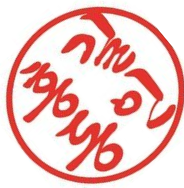
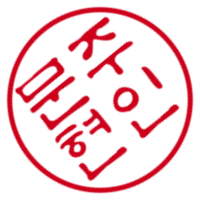
서정훈 싸인 디테일 완료

diff --git a/maru/src/main/resources/templates/dashboard/signDetail.html b/maru/src/main/resources/templates/dashboard/signDetail.html
@@ -169,10 +169,13 @@
 											<table class="table_margin_auto">
 												<tr>
 													<th width=100px height=130px th:each="STList : ${STList}">
-														<div style="z-index: 20;">
-															<img style="display: none"
-																src="../assets/img/elements/stamp/stamp.png"
-																id="stampIcon">
+
+														<div th:if="${STList.position_num} == 5">
+															<div style="z-index: 20;">
+																<img th:if="${STList}" style="display: none;"
+																	src="../assets/img/elements/stamp/stamp.png"
+																	id="stampIcon">
+															</div>
 														</div>
 													</th>
 												</tr>
@@ -187,9 +190,13 @@
 													<td class="table_center border_thick" width=100px
 														height=100px th:each="STList : ${STList}">
 
-														<div th:if="${STList.tag_sign} == Y">
-															<img width=130px height=130px
+														<div>
+															<img th:if="${STList.tag_sign} == Y" width=125px
+																height=125px
 																th:src="|../assets/img/elements/stamp/${STList.Position}.png|">
+															<img th:if="${STList.tag_sign} != Y" width=125px
+																height=125px
+																th:src="|../assets/img/elements/stamp/백지.png|">
 														</div>
 													</td>
 												</tr>

diff --git a/maru/src/main/resources/static/assets/js/main_j.js b/maru/src/main/resources/static/assets/js/main_j.js
@@ -10,7 +10,7 @@ function stampClick() {
 		
 	setTimeout(function() {
 		document.getElementById("stampIcon").style.display = "none";
-		window.location.href=window.location.href;
+		window.location.reload();
 	}, 1000);
 	
 }
@@ -30,12 +30,13 @@ let cancelBtn = document.getElementById("cancelBtn");
 
 signBtn.onclick = function() {
 
-	var asdf = document.getElementById("projects_num");
+	var pn = document.getElementById("projects_num"); //나중에 유저디테일로 바꾸기
+	var po = 1; //document.getElementById("position");
 
 	$.ajax({
 		url: 'signed',
 		type: 'get',
-		data: { projects_num: asdf.value },
+		data: { projects_num: pn.value , position : po},
 		success: idCheckSuccess,
 		error: idCheckError,
 	})

diff --git a/maru/src/main/java/net/softsociety/maru/service/dashboard/SignDetailServiceImpl.java b/maru/src/main/java/net/softsociety/maru/service/dashboard/SignDetailServiceImpl.java
@@ -17,30 +17,31 @@ public class SignDetailServiceImpl implements SignDetailService {
 
 	@Autowired
 	ProjectsDAO pdao;
-	
+
 	@Autowired
 	ProjectsTagDAO ptdao;
-	
+
 	@Override
 	public Projects selecOne(int projects_num) {
 		Projects p = pdao.selectOne(projects_num);
-		//log.debug(" 프로젝트 "+p);
+		// log.debug(" 프로젝트 "+p);
 		return p;
 	}
 
 	@Override
-	public int stamp(int position_num) {
-		
+	public int stamp(int position_num, int projects_num) {
+
 		ArrayList<ProjectsTag> ptList = ptdao.selectAll();
 		ProjectsTag pt = null;
-		
-		for(ProjectsTag pttmp : ptList) {
-			if(pttmp.getPosition_num()==position_num) {
-				pt = pttmp;
+
+		for (ProjectsTag pttmp : ptList) {
+			if (pttmp.getPosition_num() == position_num) {
+				if (pttmp.getProjects_num() == projects_num)
+					pt = pttmp;
 			}
 		}
 		pt.setTag_sign("Y");
-		
+
 		return ptdao.update(pt);
 	}
 

diff --git a/maru/src/main/java/net/softsociety/maru/controller/SignDetailController.java b/maru/src/main/java/net/softsociety/maru/controller/SignDetailController.java
@@ -90,9 +90,9 @@ public class SignDetailController {
 
 	@ResponseBody
 	@GetMapping("signed")
-	public String signed(int projects_num) {
+	public String signed(int position, int projects_num) {
 
-		int result = SDservice.stamp(projects_num);
+		int result = SDservice.stamp(position, projects_num);
 
 		return "redirect:/dashboard/signDetail";
 	}

diff --git a/maru/src/main/java/net/softsociety/maru/service/dashboard/SignDetailService.java b/maru/src/main/java/net/softsociety/maru/service/dashboard/SignDetailService.java
@@ -8,6 +8,6 @@ public interface SignDetailService {
 	public Projects selecOne(int projects_num);
 	
 	//도장을 찍으면 프로젝트 프로젝트태그의 TAG_SIGN저장값 변경하기위한 메소드
-	public int stamp(int worker_num);
+	public int stamp(int worker_num, int projects_num);
 	
 }
